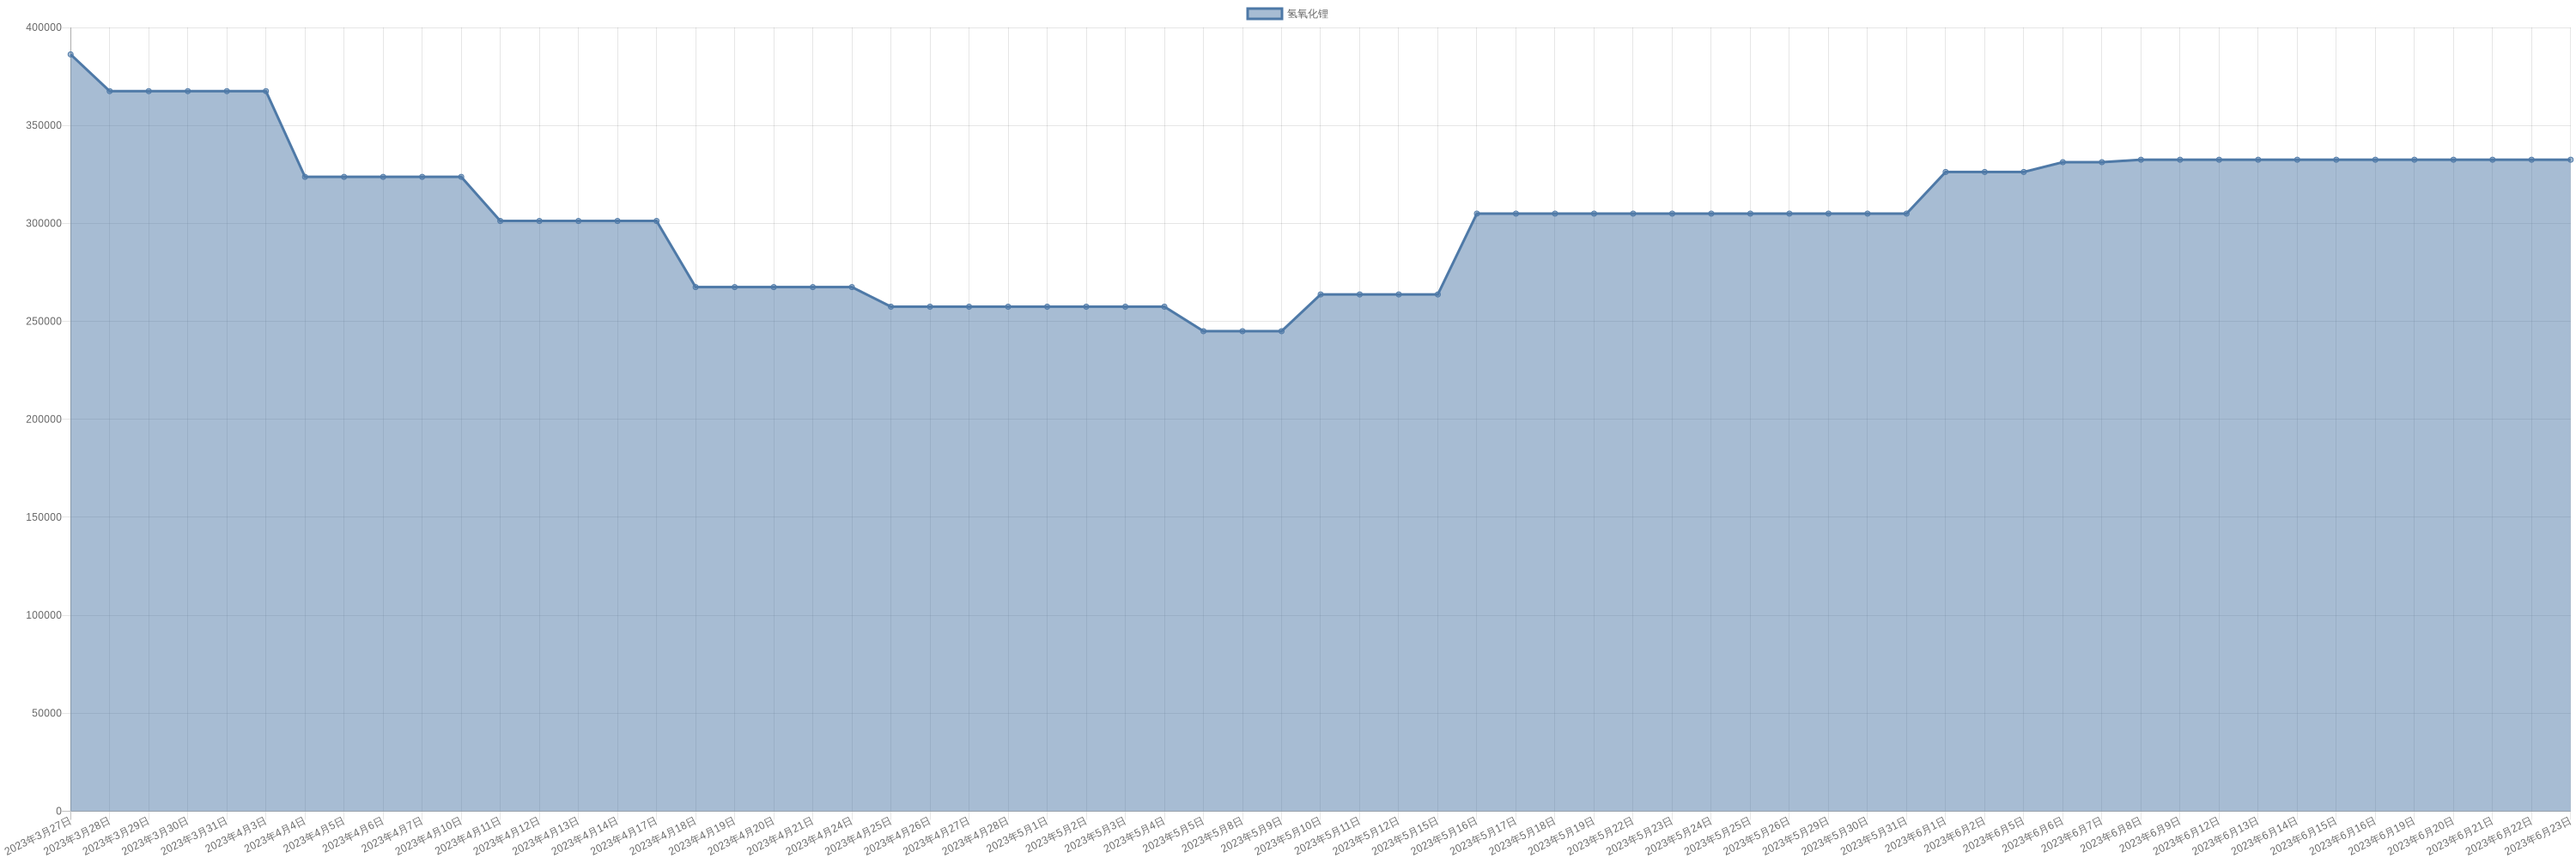
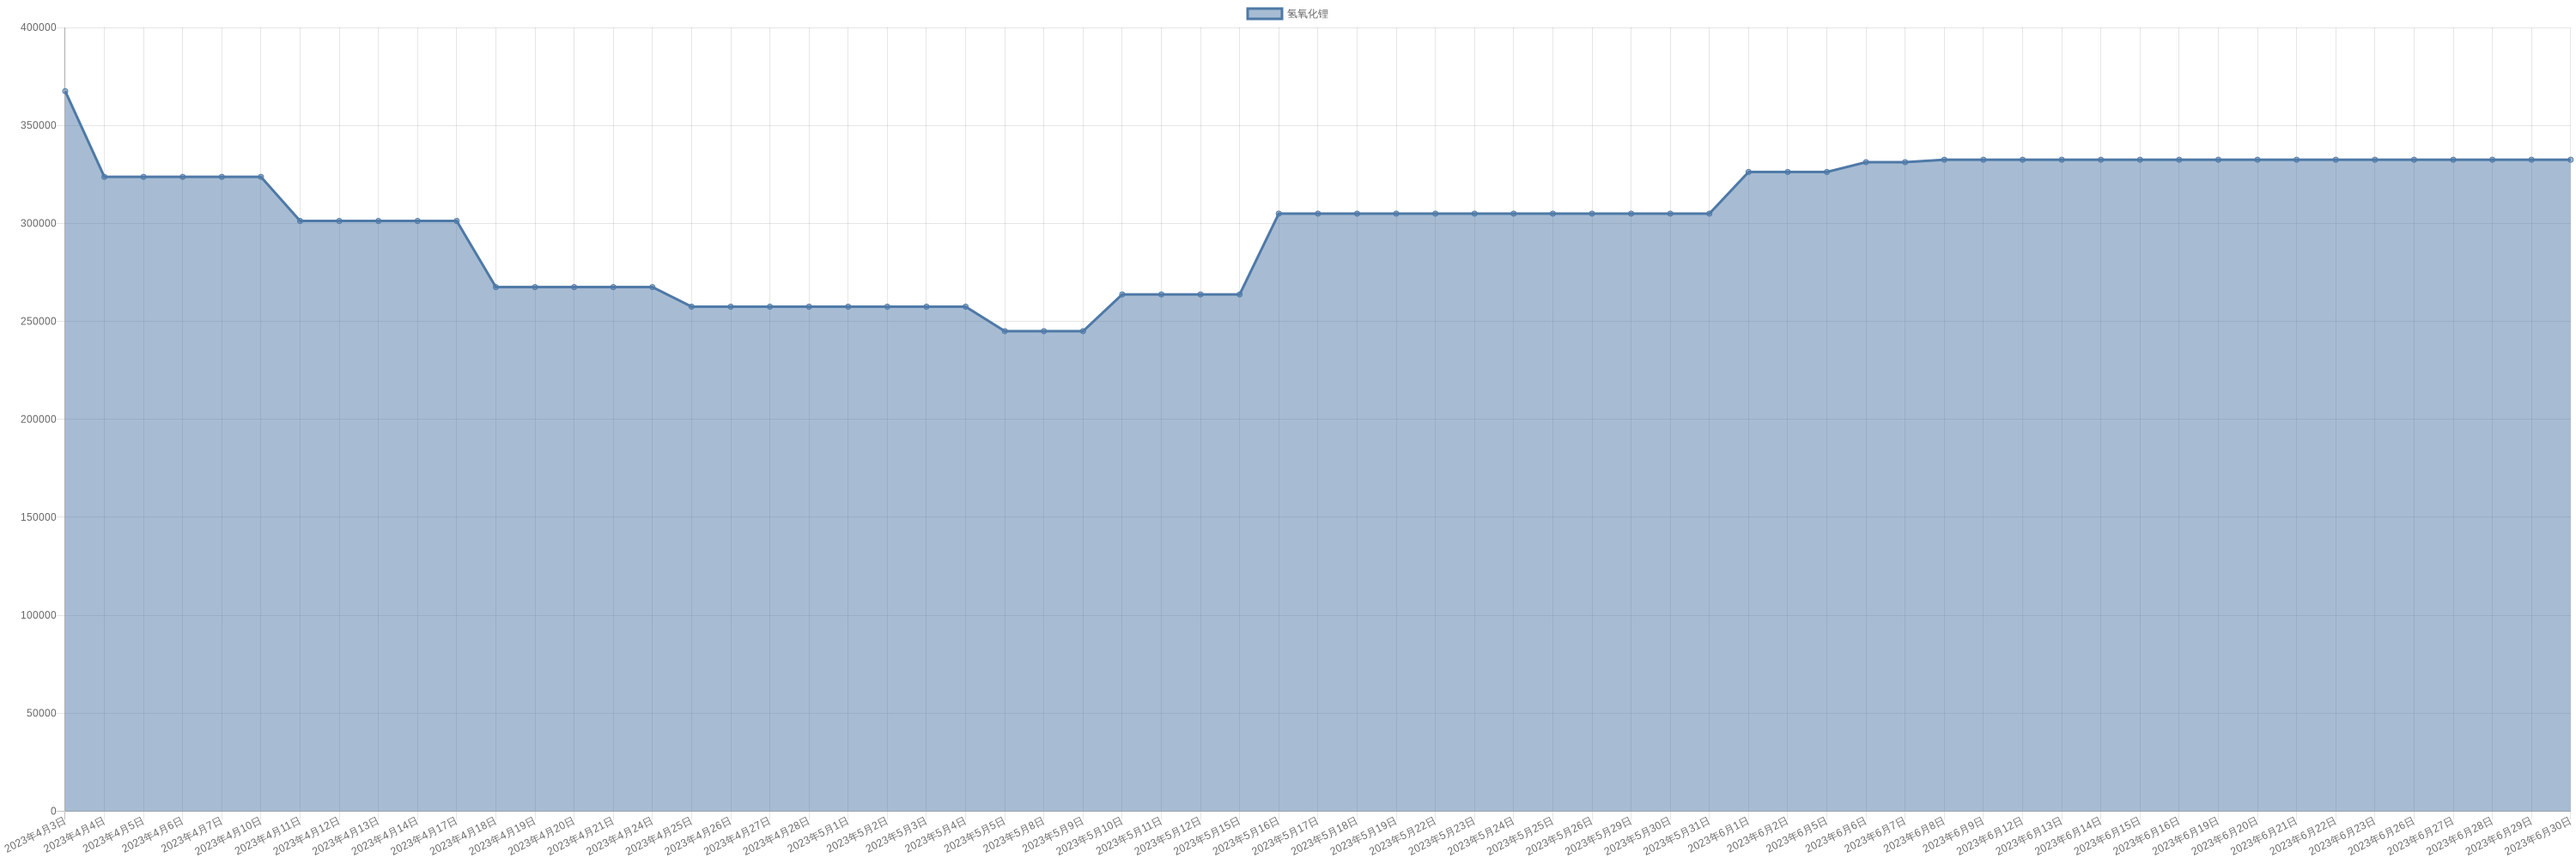
chore: sync commodity monitor

diff --git a/markdown/commodity/praseodymiumNeodymiumOxide.md b/markdown/commodity/praseodymiumNeodymiumOxide.md
@@ -8,6 +8,11 @@
 
 | 时间 | 价格 | 消息正文 |
 |:--:|:--:|:--:|
+|2023年6月30日|450000|6月30日镨钕氧化物为450000.00|
+|2023年6月29日|452500|6月29日镨钕氧化物为452500.00|
+|2023年6月28日|465000|6月28日镨钕氧化物为465000.00|
+|2023年6月27日|480000|6月27日镨钕氧化物为480000.00|
+|2023年6月26日|485000|6月26日镨钕氧化物为485000.00|
 |2023年6月23日|485000|6月23日镨钕氧化物为485000.00|
 |2023年6月22日|485000|6月22日镨钕氧化物为485000.00|
 |2023年6月21日|485000|6月21日镨钕氧化物为485000.00|

diff --git a/markdown/commodity/dyFeAlloy.md b/markdown/commodity/dyFeAlloy.md
@@ -8,6 +8,11 @@
 
 | 时间 | 价格 | 消息正文 |
 |:--:|:--:|:--:|
+|2023年6月30日|2095000|6月30日镝铁合金为2095000.00|
+|2023年6月29日|2110000|6月29日镝铁合金为2110000.00|
+|2023年6月28日|2110000|6月28日镝铁合金为2110000.00|
+|2023年6月27日|2110000|6月27日镝铁合金为2110000.00|
+|2023年6月26日|2110000|6月26日镝铁合金为2110000.00|
 |2023年6月23日|2080000|6月23日镝铁合金为2080000.00|
 |2023年6月22日|2080000|6月22日镝铁合金为2080000.00|
 |2023年6月21日|2080000|6月21日镝铁合金为2080000.00|

diff --git a/markdown/commodity/lithiumHydroxide.md b/markdown/commodity/lithiumHydroxide.md
@@ -8,6 +8,11 @@
 
 | 时间 | 价格 | 消息正文 |
 |:--:|:--:|:--:|
+|2023年6月30日|332500|6月30日氢氧化锂为332500.00|
+|2023年6月29日|332500|6月29日氢氧化锂为332500.00|
+|2023年6月28日|332500|6月28日氢氧化锂为332500.00|
+|2023年6月27日|332500|6月27日氢氧化锂为332500.00|
+|2023年6月26日|332500|6月26日氢氧化锂为332500.00|
 |2023年6月23日|332500|6月23日氢氧化锂为332500.00|
 |2023年6月22日|332500|6月22日氢氧化锂为332500.00|
 |2023年6月21日|332500|6月21日氢氧化锂为332500.00|

diff --git a/markdown/commodity/praseodymiumNeodymiumAlloy.md b/markdown/commodity/praseodymiumNeodymiumAlloy.md
@@ -8,6 +8,11 @@
 
 | 时间 | 价格 | 消息正文 |
 |:--:|:--:|:--:|
+|2023年6月30日|560000|6月30日镨钕合金为560000.00|
+|2023年6月29日|567500|6月29日镨钕合金为567500.00|
+|2023年6月28日|582500|6月28日镨钕合金为582500.00|
+|2023年6月27日|592500|6月27日镨钕合金为592500.00|
+|2023年6月26日|600000|6月26日镨钕合金为600000.00|
 |2023年6月23日|602500|6月23日镨钕合金为602500.00|
 |2023年6月22日|602500|6月22日镨钕合金为602500.00|
 |2023年6月21日|602500|6月21日镨钕合金为602500.00|

diff --git a/markdown/commodity/lithiumIronPhosphate.md b/markdown/commodity/lithiumIronPhosphate.md
@@ -8,6 +8,11 @@
 
 | 时间 | 价格 | 消息正文 |
 |:--:|:--:|:--:|
+|2023年6月30日|95000|6月30日磷酸铁锂为95000.00|
+|2023年6月29日|95000|6月29日磷酸铁锂为95000.00|
+|2023年6月28日|94000|6月28日磷酸铁锂为94000.00|
+|2023年6月27日|94000|6月27日磷酸铁锂为94000.00|
+|2023年6月26日|94000|6月26日磷酸铁锂为94000.00|
 |2023年6月23日|94000|6月23日磷酸铁锂为94000.00|
 |2023年6月22日|94000|6月22日磷酸铁锂为94000.00|
 |2023年6月21日|94000|6月21日磷酸铁锂为94000.00|

diff --git a/markdown/commodity/dysprosiumOxide.md b/markdown/commodity/dysprosiumOxide.md
@@ -8,6 +8,8 @@
 
 | 时间 | 价格 | 消息正文 |
 |:--:|:--:|:--:|
+|2023年6月30日|2225000|6月30日氧化镝为2225000.00|
+|2023年6月29日|2225000|6月29日氧化镝为2225000.00|
 |2023年6月28日|2225000|6月28日氧化镝为2225000.00|
 |2023年6月27日|2220000|6月27日氧化镝为2220000.00|
 |2023年6月26日|2210000|6月26日氧化镝为2210000.00|

diff --git a/markdown/commodity/neodymiumOxide.md b/markdown/commodity/neodymiumOxide.md
@@ -8,6 +8,8 @@
 
 | 时间 | 价格 | 消息正文 |
 |:--:|:--:|:--:|
+|2023年6月30日|477500|6月30日氧化钕为477500.00|
+|2023年6月29日|480000|6月29日氧化钕为480000.00|
 |2023年6月28日|490000|6月28日氧化钕为490000.00|
 |2023年6月27日|500000|6月27日氧化钕为500000.00|
 |2023年6月26日|500000|6月26日氧化钕为500000.00|

diff --git a/markdown/commodity/praseodymiumOxide.md b/markdown/commodity/praseodymiumOxide.md
@@ -8,6 +8,8 @@
 
 | 时间 | 价格 | 消息正文 |
 |:--:|:--:|:--:|
+|2023年6月30日|477500|6月30日氧化镨为477500.00|
+|2023年6月29日|482500|6月29日氧化镨为482500.00|
 |2023年6月28日|487500|6月28日氧化镨为487500.00|
 |2023年6月27日|497500|6月27日氧化镨为497500.00|
 |2023年6月26日|497500|6月26日氧化镨为497500.00|
